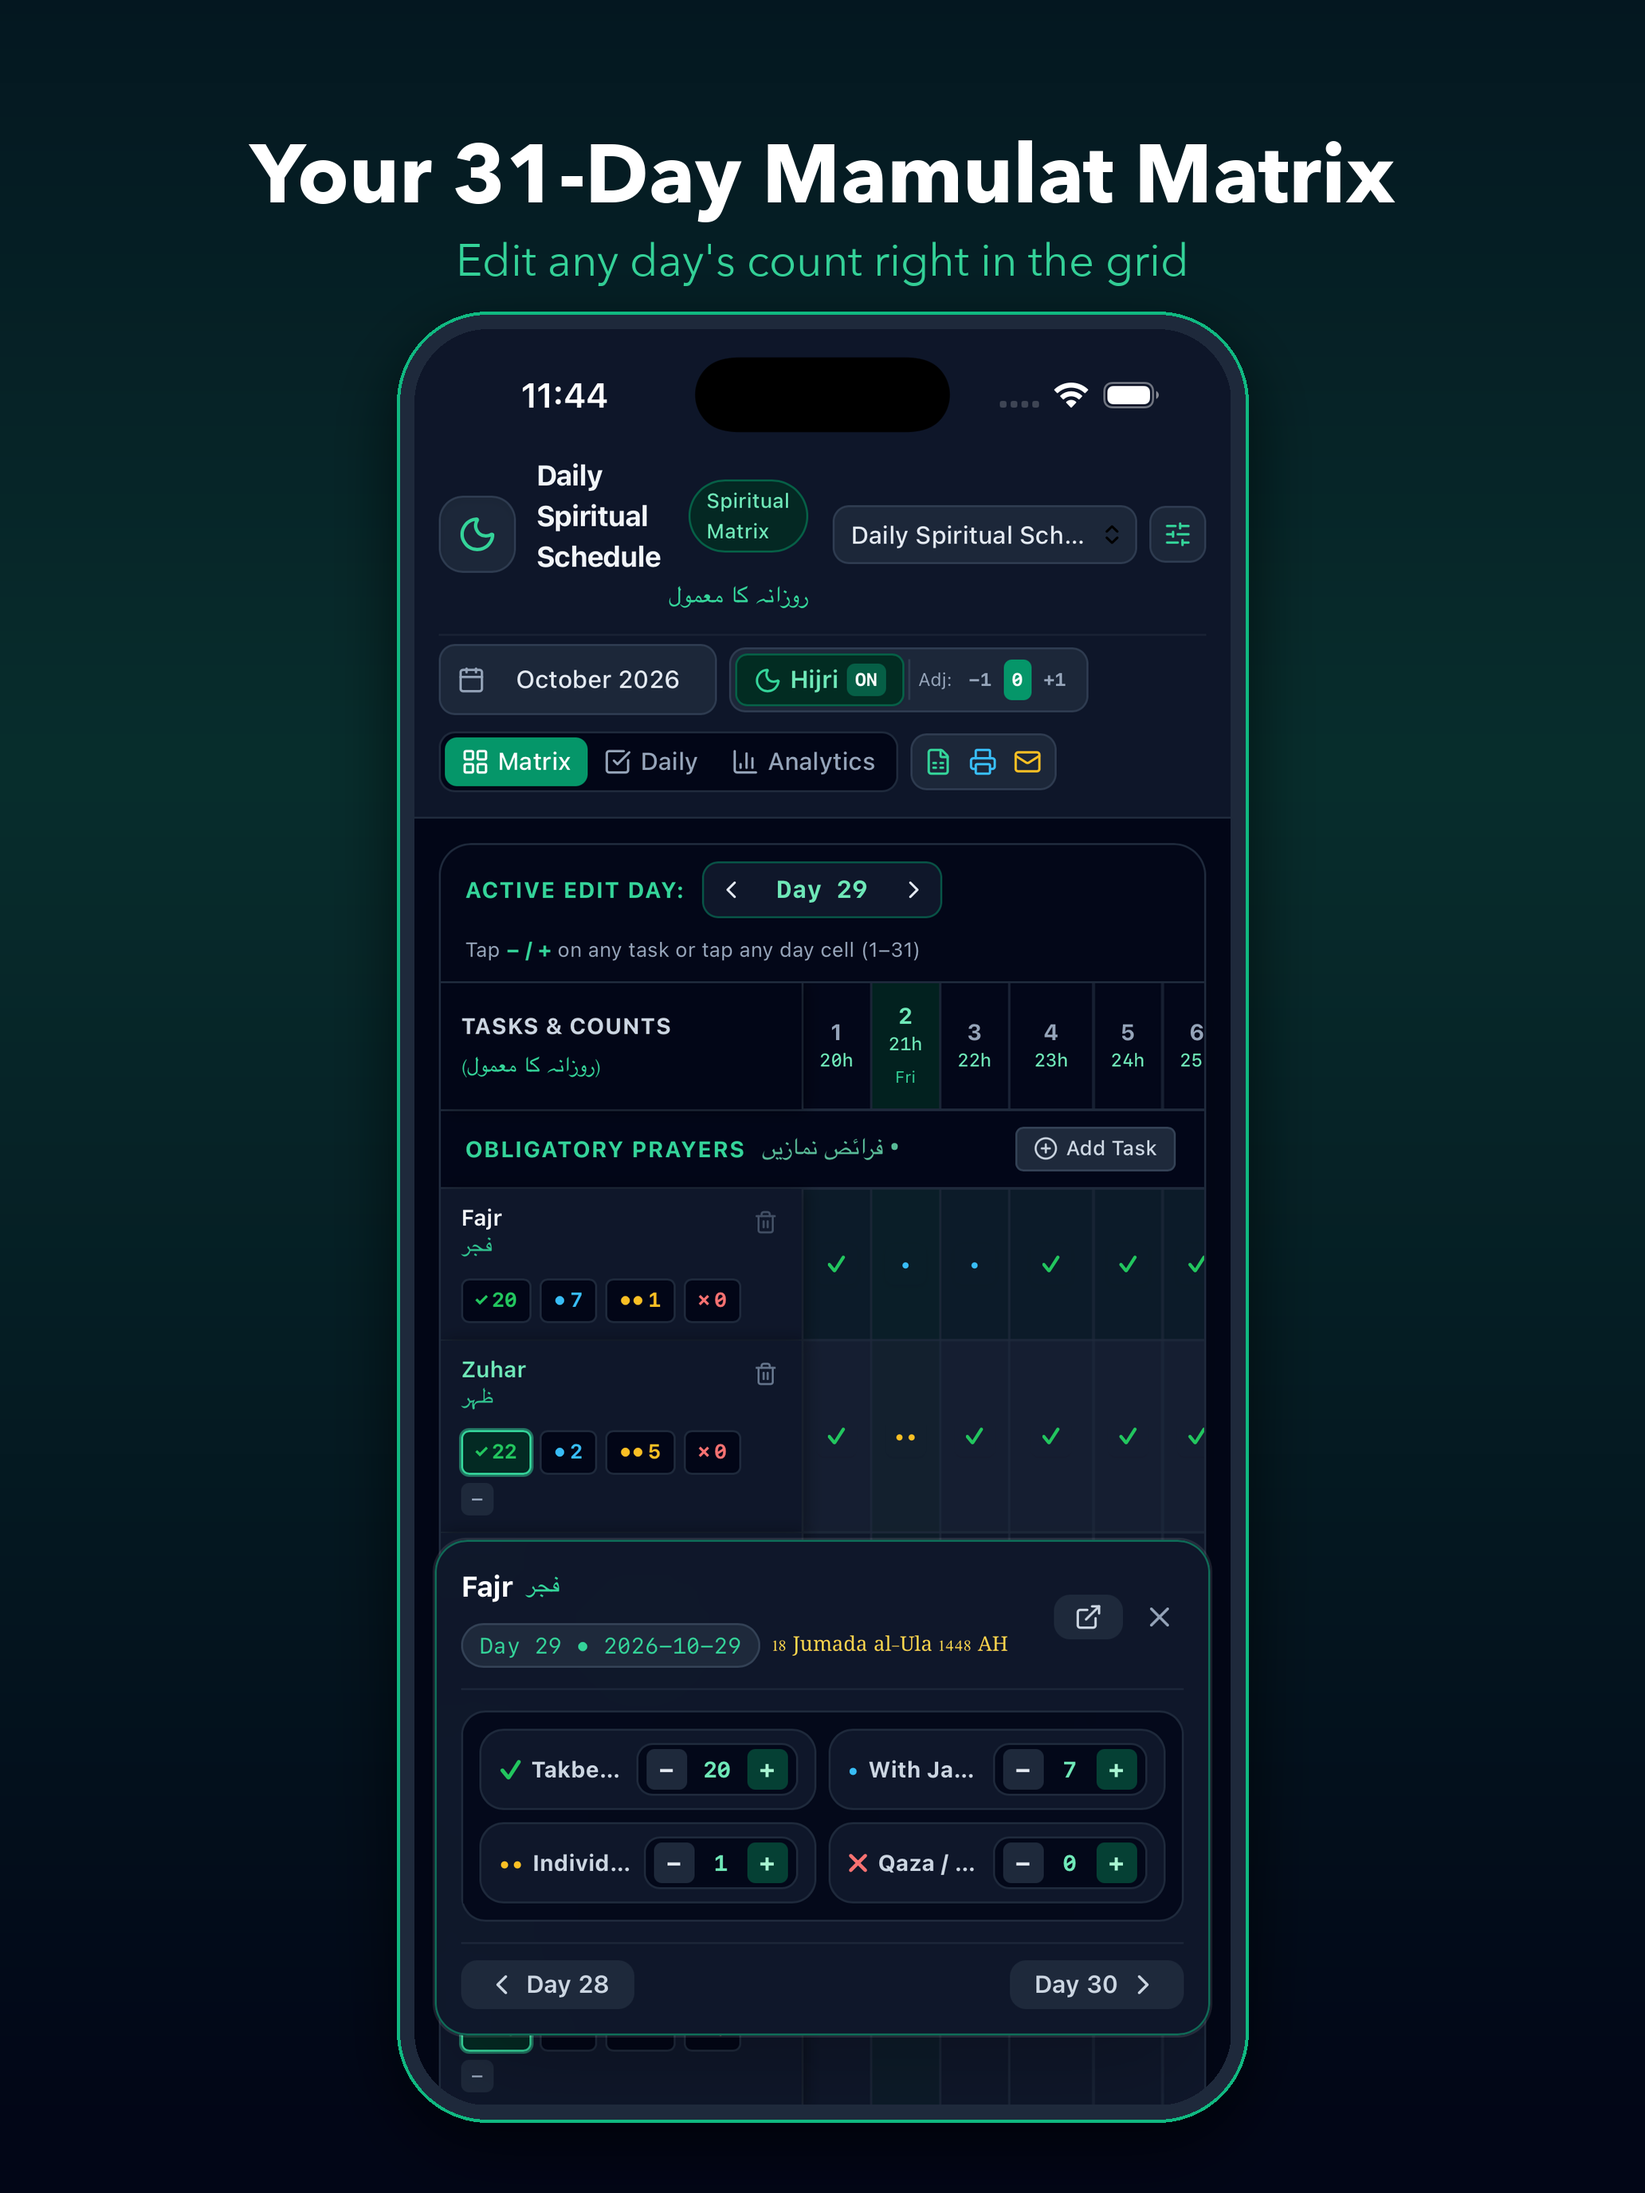
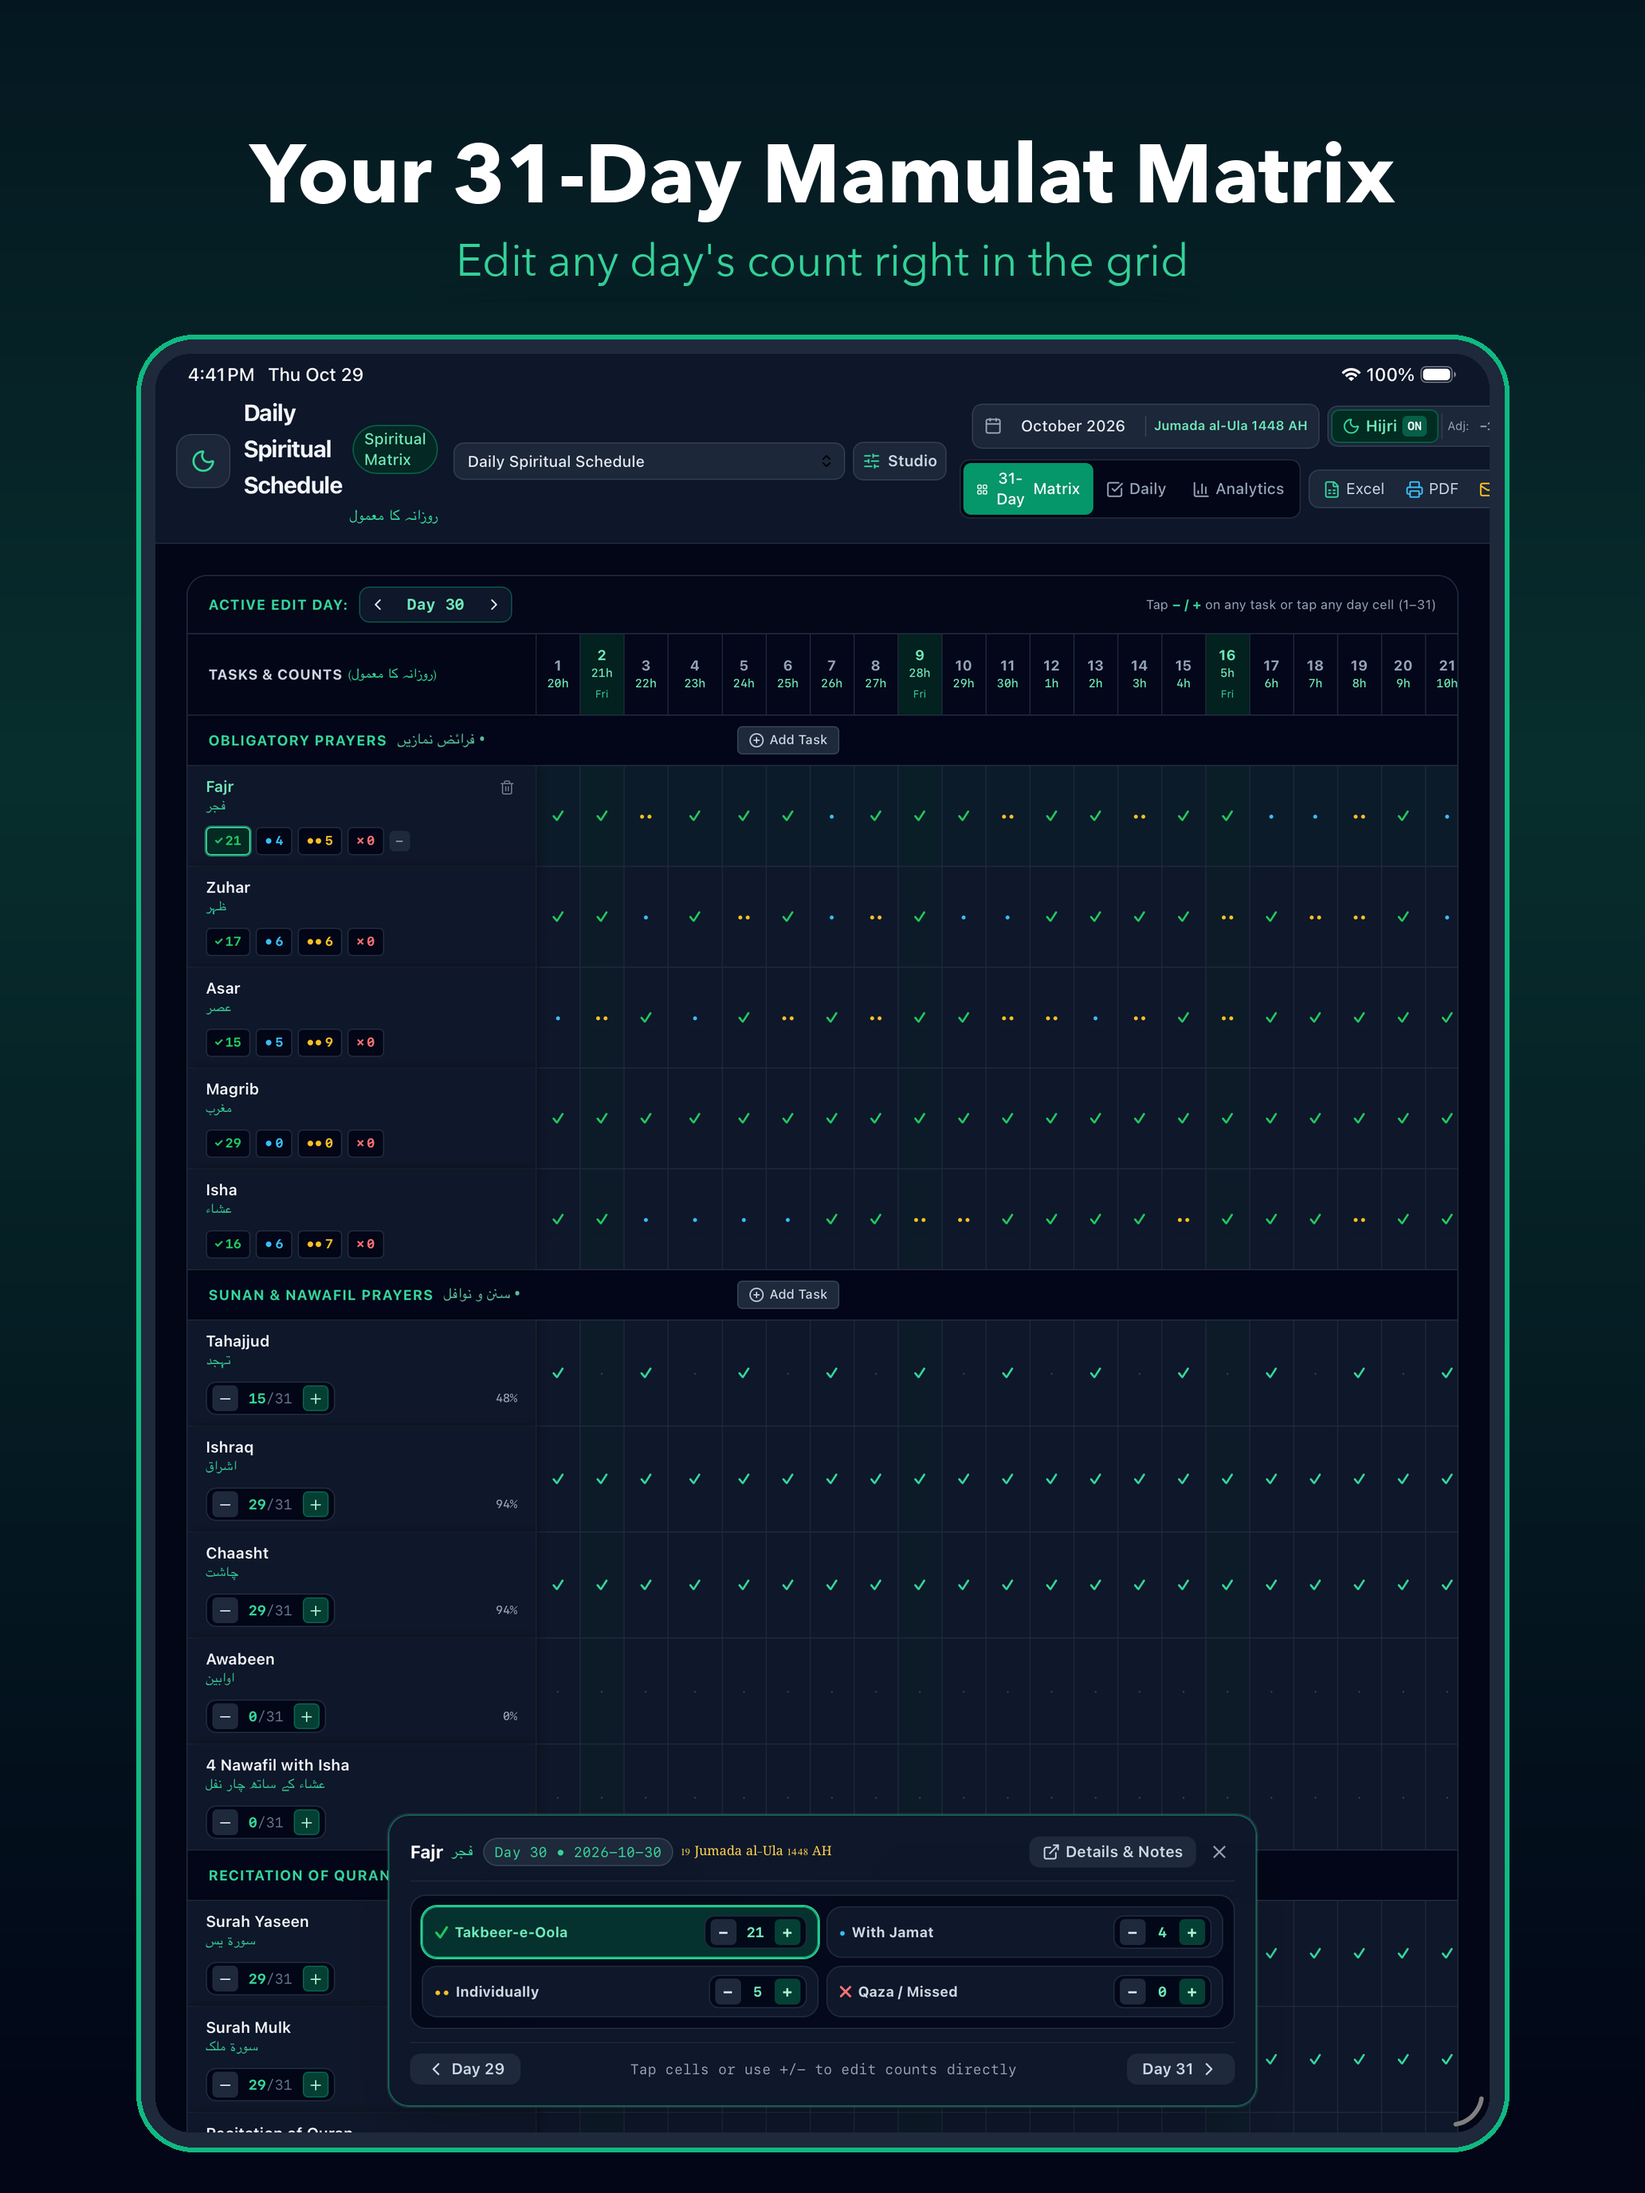
App Store prep: real iPad screenshots, contact details, privacy/support updates
- Replace phone-framed iPad 13" screenshots with captioned iPad Pro 13" simulator captures (raw originals in ipad_raw/)
- Add App Review contact, copyright, Render URLs and release checklist to metadata
- Optimize keywords (drop words already indexed from name/subtitle)
- Privacy/support pages: add contact email, remove GitHub issue links ahead of making the repo private

Claude-Session: https://claude.ai/code/session_01PYcv9d8czcA3rRi2S9nQHw

diff --git a/public/support.html b/public/support.html
@@ -85,7 +85,8 @@
       For bug reports, feature requests, or direct assistance:
     </p>
     <ul>
-      <li><strong>GitHub Support Tracker:</strong> <a href="https://github.com/mbany786/wird/issues">https://github.com/mbany786/wird/issues</a></li>
+      <li><strong>Email:</strong> <a href="mailto:m.anayetullah@gmail.com">m.anayetullah@gmail.com</a></li>
+      <li><strong>Developer:</strong> VitalScale Technologies LLC</li>
       <li><strong>Privacy Policy:</strong> <a href="/privacy.html">View Privacy Policy</a></li>
     </ul>
   </div>

diff --git a/public/privacy.html b/public/privacy.html
@@ -91,7 +91,7 @@
 
     <h2>6. Contact Us</h2>
     <p>
-      If you have any questions about this Privacy Policy, please visit our <a href="/support.html">Support Page</a> or open an issue at <a href="https://github.com/mbany786/wird/issues">github.com/mbany786/wird</a>.
+      If you have any questions about this Privacy Policy, email <a href="mailto:m.anayetullah@gmail.com">m.anayetullah@gmail.com</a> (VitalScale Technologies LLC) or visit our <a href="/support.html">Support Page</a>.
     </p>
   </div>
 </body>

diff --git a/appstore/metadata.md b/appstore/metadata.md
@@ -15,14 +15,15 @@ Copy-paste these values into App Store Connect → *My Apps → Wird*.
 | Content Rights | Does not contain third-party content |
 | Age Rating | 4+ (no objectionable content; answer "None" to all questionnaire items) |
 | Price | Free |
+| Copyright | `2026 VitalScale Technologies LLC` |
 
 ## URLs
 
 | Field | Value |
 |---|---|
-| Privacy Policy URL | `https://<your-render-domain>/privacy.html` |
-| Support URL | `https://<your-render-domain>/support.html` |
-| Marketing URL (optional) | `https://<your-render-domain>/` |
+| Privacy Policy URL | `https://wird-habit-os.onrender.com/privacy.html` |
+| Support URL | `https://wird-habit-os.onrender.com/support.html` |
+| Marketing URL (optional) | `https://wird-habit-os.onrender.com/` |
 
 > Both pages ship from `public/` and deploy with the web app on Render.
 
@@ -72,8 +73,10 @@ Urdu and Arabic labels are shown throughout, alongside English.
 
 ## Keywords (≤100, comma-separated, no spaces)
 
+Words already in the name and subtitle (Wird, Mamulat, Habit, Tracker, Prayer, Dhikr, Daily, Matrix) are indexed automatically, so they are left out here.
+
 ```
-mamulat,wird,dhikr,zikr,tasbih,salah,namaz,prayer,quran,habit,islamic,muslim,tracker,hijri,sunnah
+zikr,tasbih,salah,namaz,quran,islamic,muslim,hijri,sunnah,tahajjud,adhkar,azkar,ibadah,qaza,routine
 ```
 
 ## What's New (v1.0)
@@ -98,7 +101,9 @@ First release of Wird — your private 31-day Mamulat matrix for prayers, dhikr,
 |---|---|
 | Sign-in required | No |
 | Notes | `Wird works fully offline with no account. All data is stored locally on the device. To test editing, open the Matrix tab, pick a day with "Active Edit Day", and tap +/− on any habit.` |
-| Contact | *(your name, phone, email)* |
+| Contact name | Mahdi Anayetullah |
+| Contact email | m.anayetullah@gmail.com |
+| Contact phone | +1 609 375 7753 |
 
 ## Screenshots
 
@@ -109,6 +114,28 @@ First release of Wird — your private 31-day Mamulat matrix for prayers, dhikr,
 
 Upload in order 01 → 05.
 
+| # | Caption | Screen |
+|---|---|---|
+| 01 | Your 31-Day Mamulat Matrix — Edit any day's count right in the grid | Matrix with quick-count dock |
+| 02 | Log Each Prayer in One Tap — Takbeer-e-Oola, Jamat, Individual or Qaza | Daily view |
+| 03 | See the Whole Month at a Glance — Monthly summaries for every habit | Full-month matrix |
+| 04 | Track Your Spiritual Growth — Zikr totals, Quran pages & habit strength | Analytics |
+| 05 | Build Your Own Routine — Templates, a blank slate, or generate one | Template Studio |
+
+iPad shots are real iPad Pro 13" (M5) simulator captures; uncaptioned originals are in `appstore/screenshots/ipad_raw/`.
+
 ## App Icon
 
 - 1024 × 1024 RGB PNG, no alpha: `ios/App/App/Assets.xcassets/AppIcon.appiconset/AppIcon-512@2x.png`
+
+## Release Checklist
+
+- [x] Signed IPA: `ios/build/export/App.ipa` (v1.0, build 202610291624). Rebuild with `bun run ios:release` right before uploading so it carries the latest web bundle and a fresh build number.
+- [x] App icon, splash, privacy manifest, export-compliance flag
+- [x] iPhone 6.9" and iPad 13" screenshots (5 each)
+- [x] Listing text within App Store limits (name 29/30, subtitle 27/30, promo 134/170, keywords 99/100, description 1276/4000)
+- [x] App Review contact: Mahdi Anayetullah · m.anayetullah@gmail.com · +1 609 375 7753
+- [ ] Make the GitHub repo `mbany786/wird` private (Settings → General → Danger Zone → Change visibility). Privacy and Support pages no longer link to it.
+- [ ] Deploy `render.yaml` on Render (New → Blueprint → `mbany786/wird`) and confirm `https://wird-habit-os.onrender.com/privacy.html` and `/support.html` load. If Render assigns a different domain, update the URLs above.
+- [ ] Create the app record in App Store Connect (bundle ID `com.wird.habits`, SKU `wird-habits-001`).
+- [ ] Upload: `bun run ios:upload`, or Xcode → Organizer → Distribute App. **Not yet — hold until approved.**
